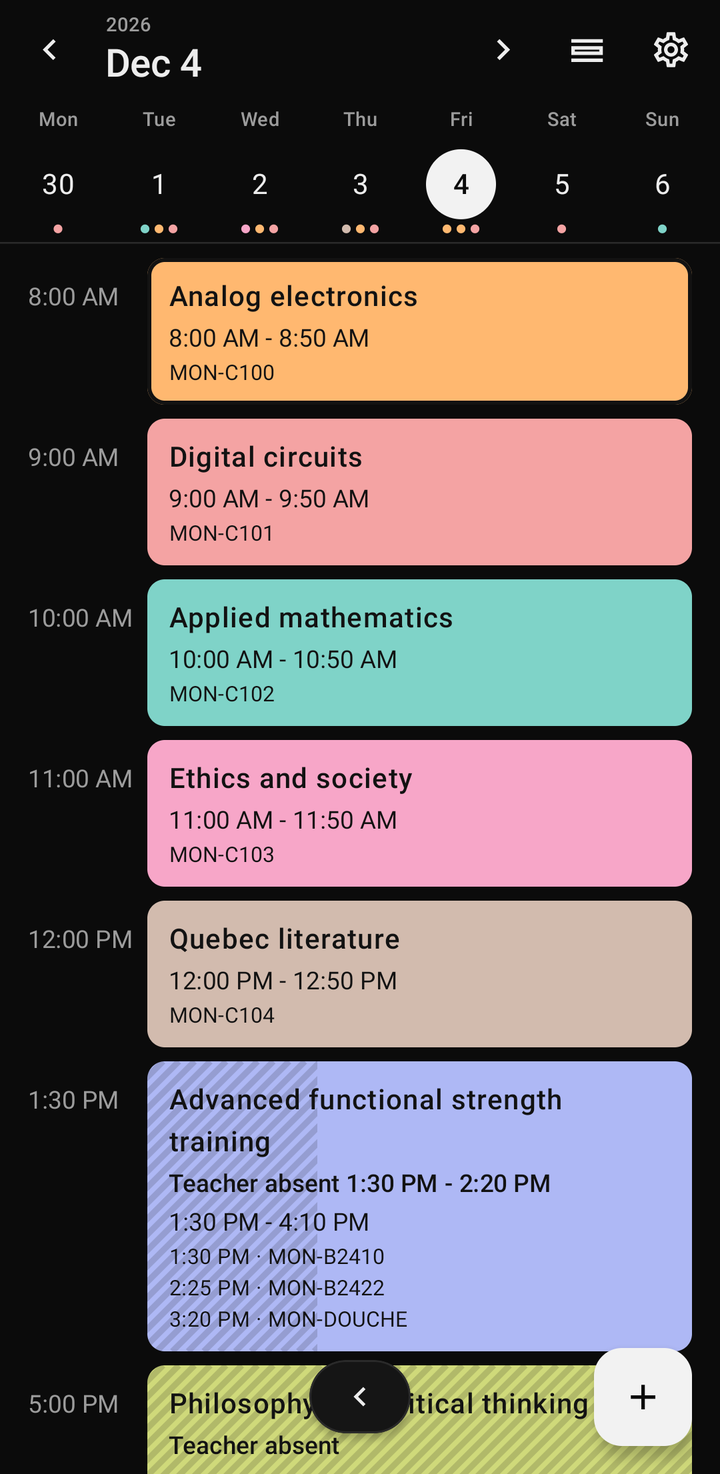
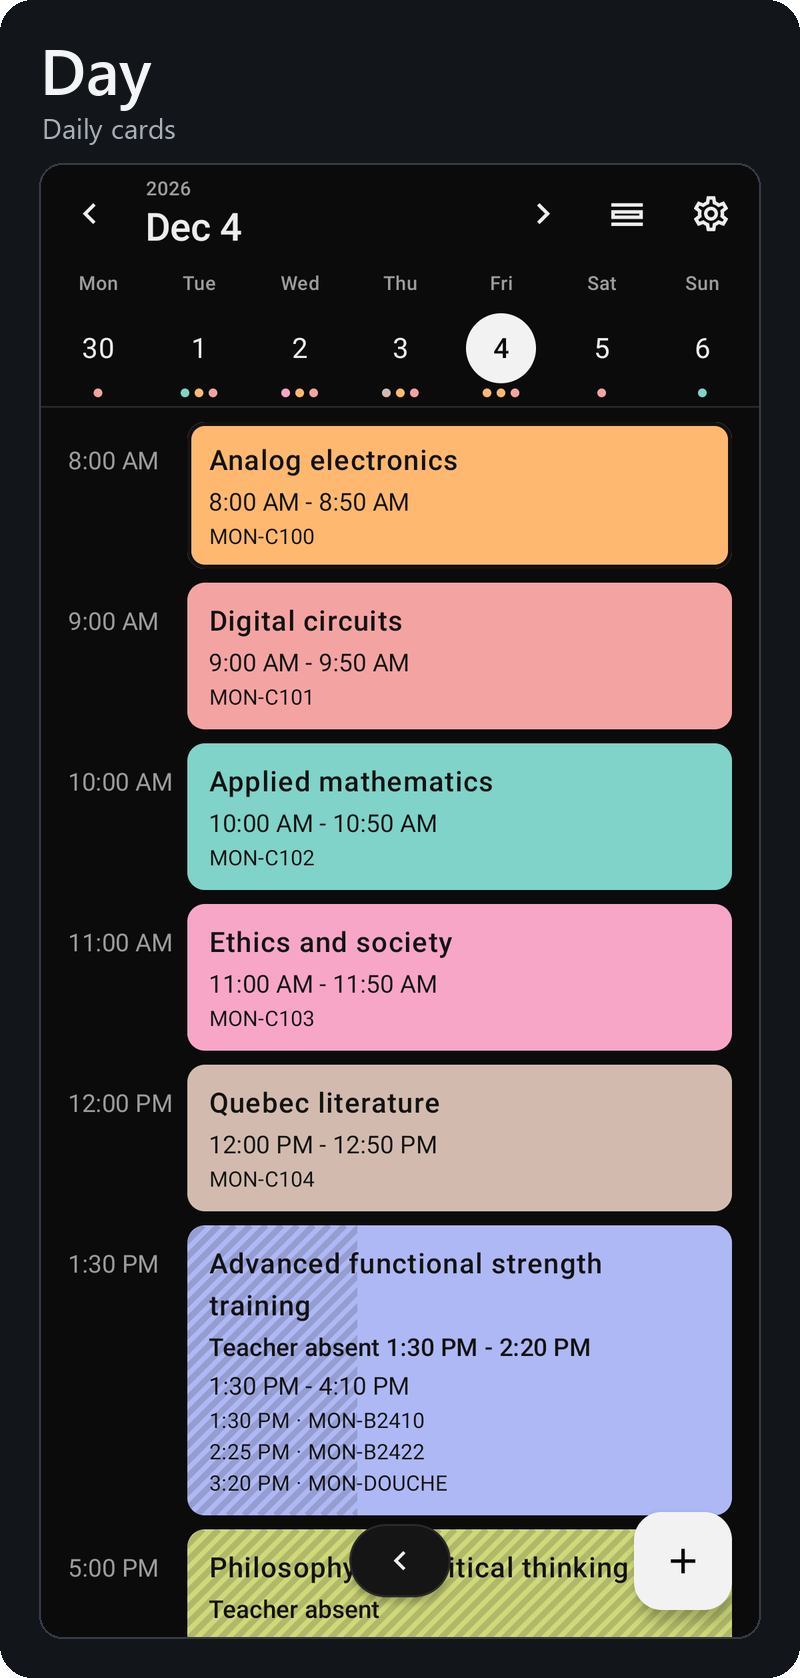
docs: polish calendar gallery [skip ci]

diff --git a/README.md b/README.md
@@ -4,13 +4,13 @@ A clean calendar app for your phone, with direct computer control.
 
 Plan with the calendars already on your phone. You can also ask your computer to add, edit and remove events without a second calendar app or a Google account.
 
-<p>
-  <img src="docs/images/month.png" alt="Month view in dark mode with sample classes" width="32%" />
-  <img src="docs/images/week.png" alt="Week timeline in dark mode with three visible days" width="32%" />
-  <img src="docs/images/day.png" alt="Day cards in dark mode with class times and rooms" width="32%" />
+<p align="center">
+  <a href="docs/images/month.png"><img src="docs/images/month.png" alt="Month view in dark mode with sample classes" width="31%" /></a>
+  <a href="docs/images/week.png"><img src="docs/images/week.png" alt="Week timeline in dark mode with three visible days" width="31%" /></a>
+  <a href="docs/images/day.png"><img src="docs/images/day.png" alt="Day cards in dark mode with class times and rooms" width="31%" /></a>
 </p>
 
-Month, Week and Day in dark mode. Screenshots use sample events.
+<p align="center">Dark mode with sample events. Select a view to enlarge it.</p>
 
 ## Make it yours
 
